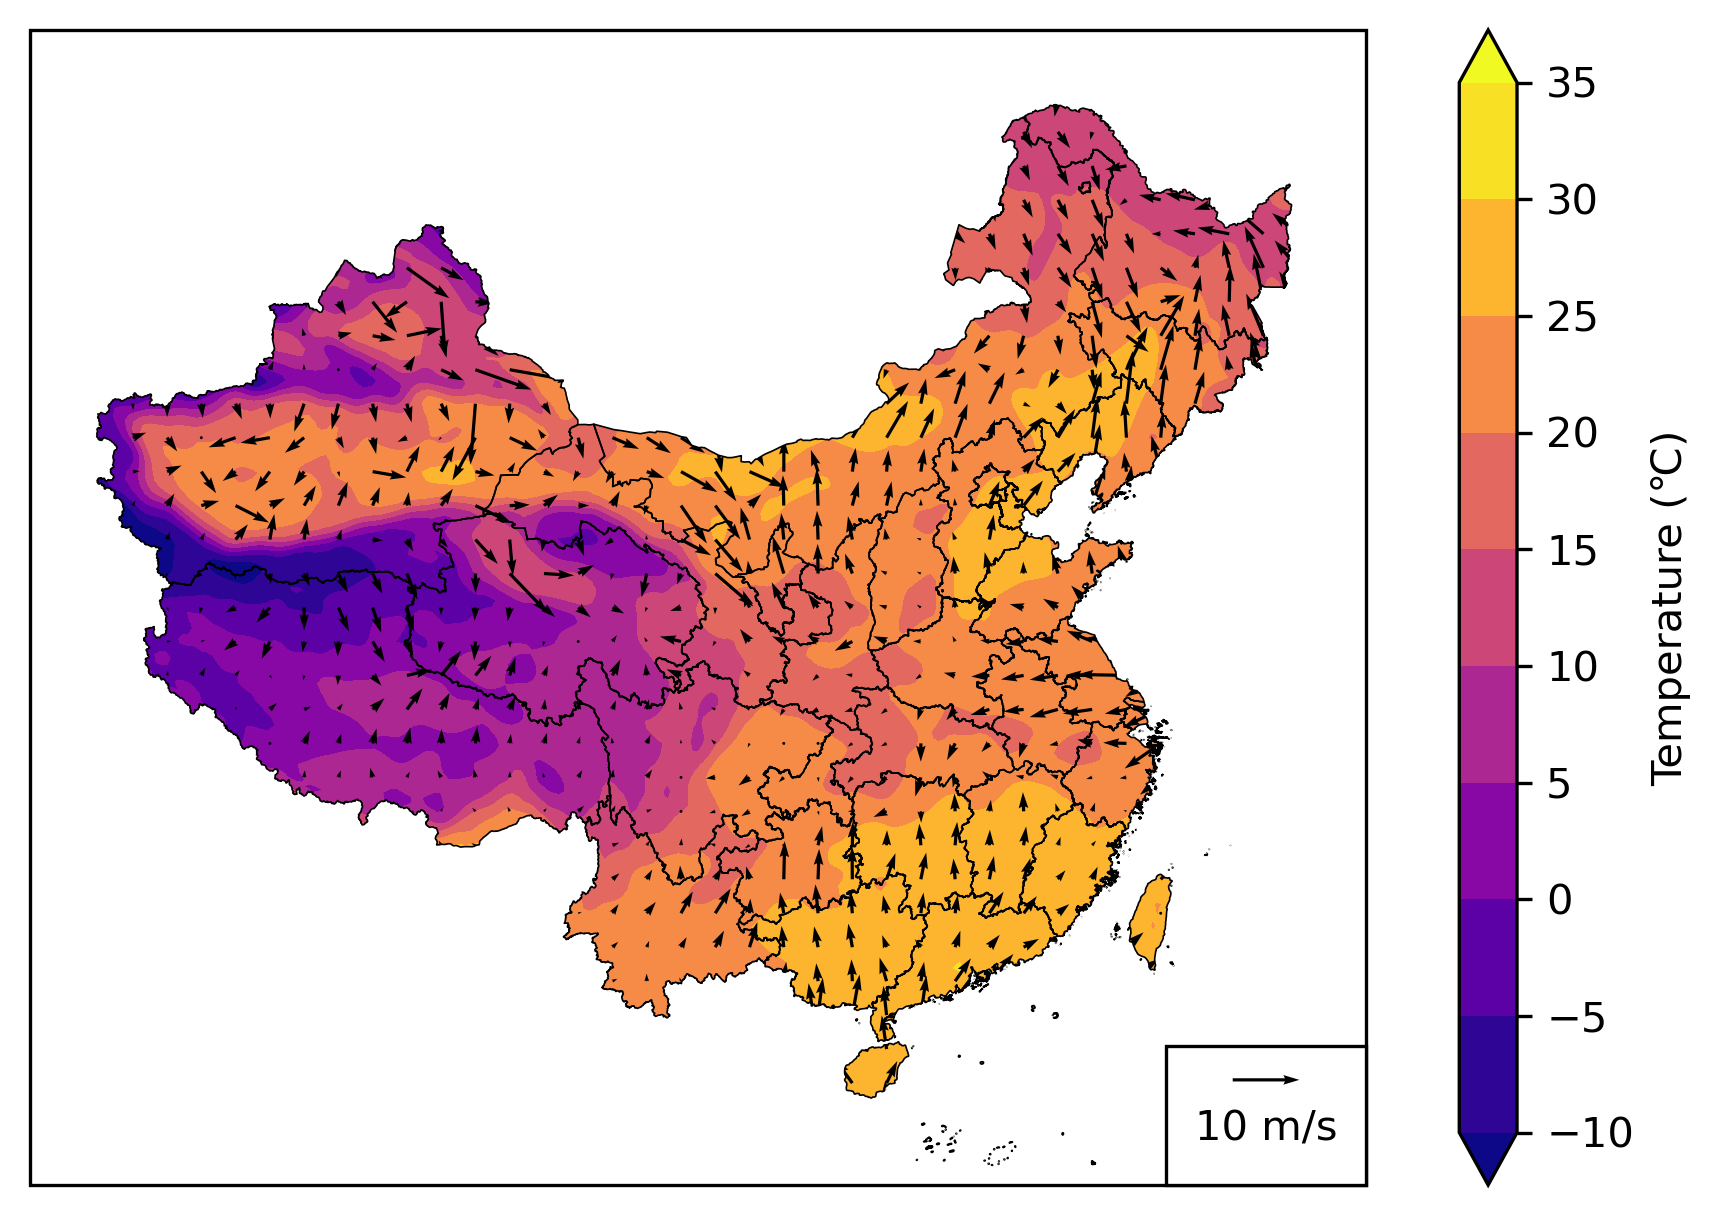
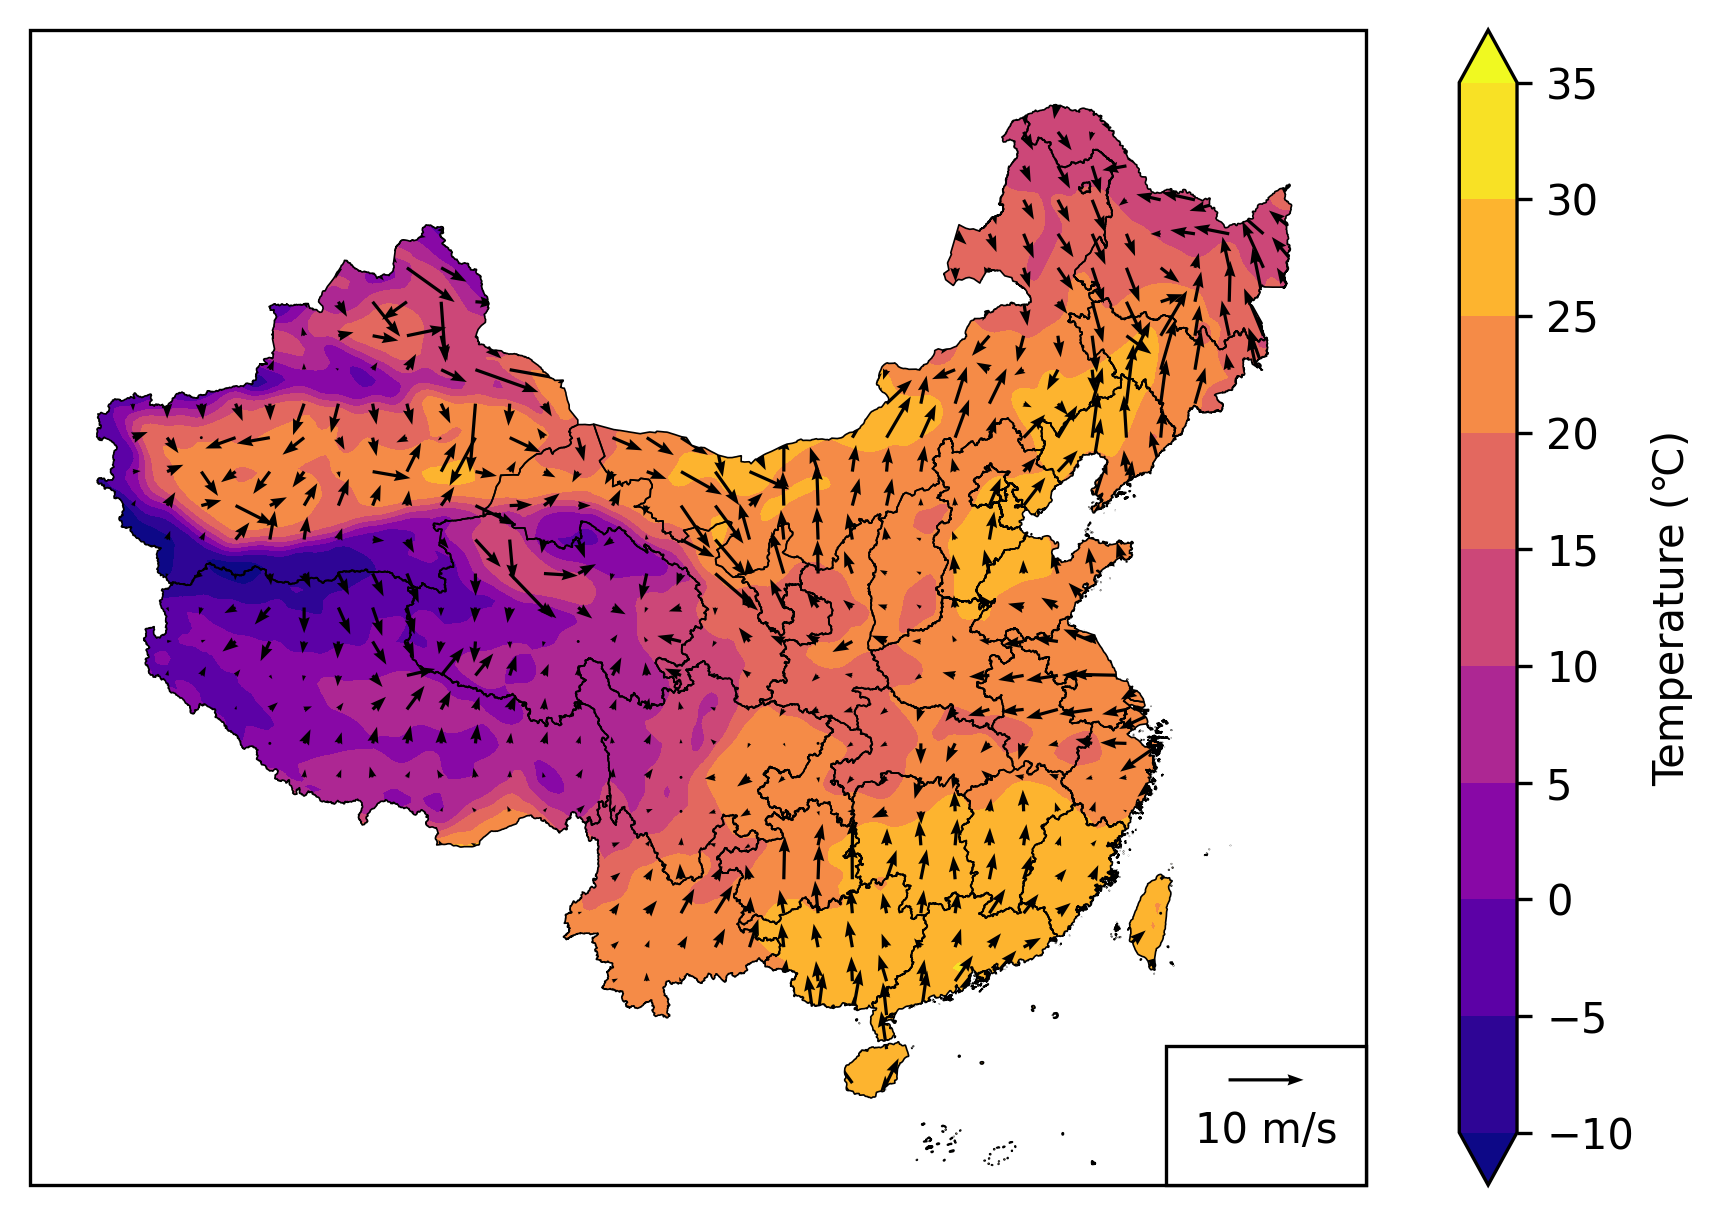
change scale_units in quiver example

diff --git a/example/quiver.py b/example/quiver.py
@@ -40,14 +40,15 @@ cf = ax.contourf(
 )
 fig.colorbar(cf, ax=ax, label="Temperature (℃)")
 
-# 绘制风场
+# inches 单位保证 jupyter 里效果一致
 Q = ax.quiver(
     X,
     Y,
     u10,
     v10,
-    scale=0.15,
-    scale_units="dots",
+    scale=40,
+    scale_units="inches",
+    headwidth=3.5,
     regrid_shape=35,
     transform=data_crs,
 )
